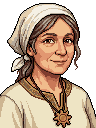
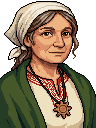
Companions: six fight portraits and the new Kleryczka
The author's picks: "262 A", "264 B", "265 A", "266 D", "267 D", "268 B"
and "270 D". The Wojownik, the Łuczniczka, the Łucznik, the Magini, the
Kleryk and the Cień woman fight with their whole figures, brought to the
class portraits' size (tools/normalize-portraits.py), their fight cards
centred on their faces. The Kleryczka has her new, more dignified bust,
which is also the reference for her fight portrait. The Cień man's is
drawn again ("269 D do poprawy - za mały lub ucięty"), asking for a
figure that fills the picture's height; until his and the Kleryczka's
come, those two fight with their busts.

Claude-Session: https://claude.ai/code/session_01EFZUMqpHps3KDRogHBzjf3

diff --git a/src/client/art.js b/src/client/art.js
@@ -285,8 +285,8 @@ export const SPRITES = {
   'companion-portraits': {
     width: 96,
     height: 128,
-    ids: [],
-    faces: {},
+    ids: ['warrior-male', 'archer-female', 'archer-male', 'mage-female', 'cleric-male', 'shadow-female'],
+    faces: { 'warrior-male': 52, 'archer-female': 48, 'archer-male': 44, 'mage-female': 47, 'cleric-male': 58, 'shadow-female': 45 },
   },
   'settlement-board': {
     width: 384,
